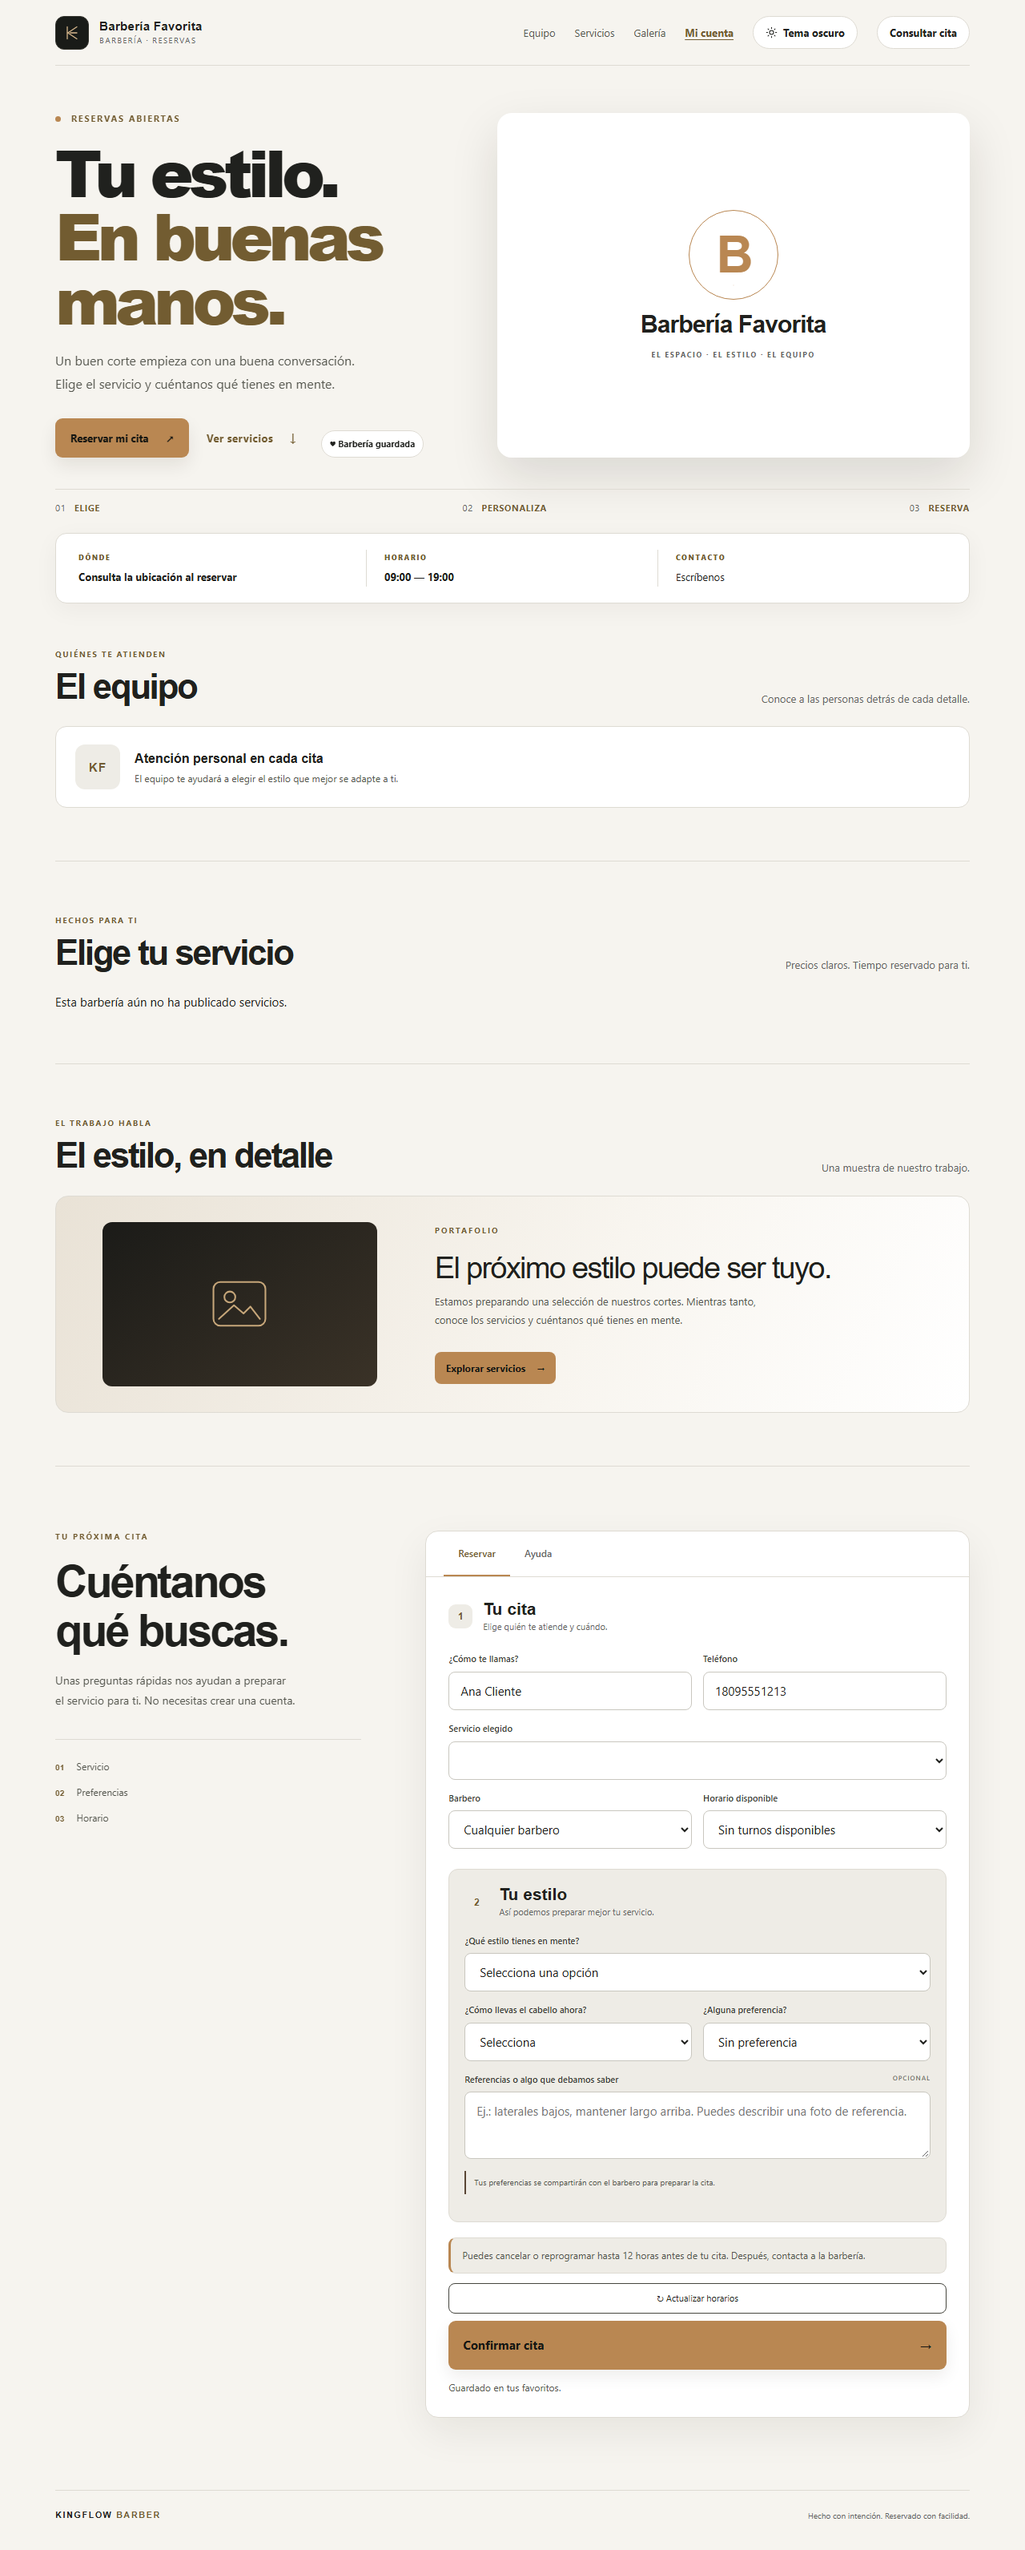
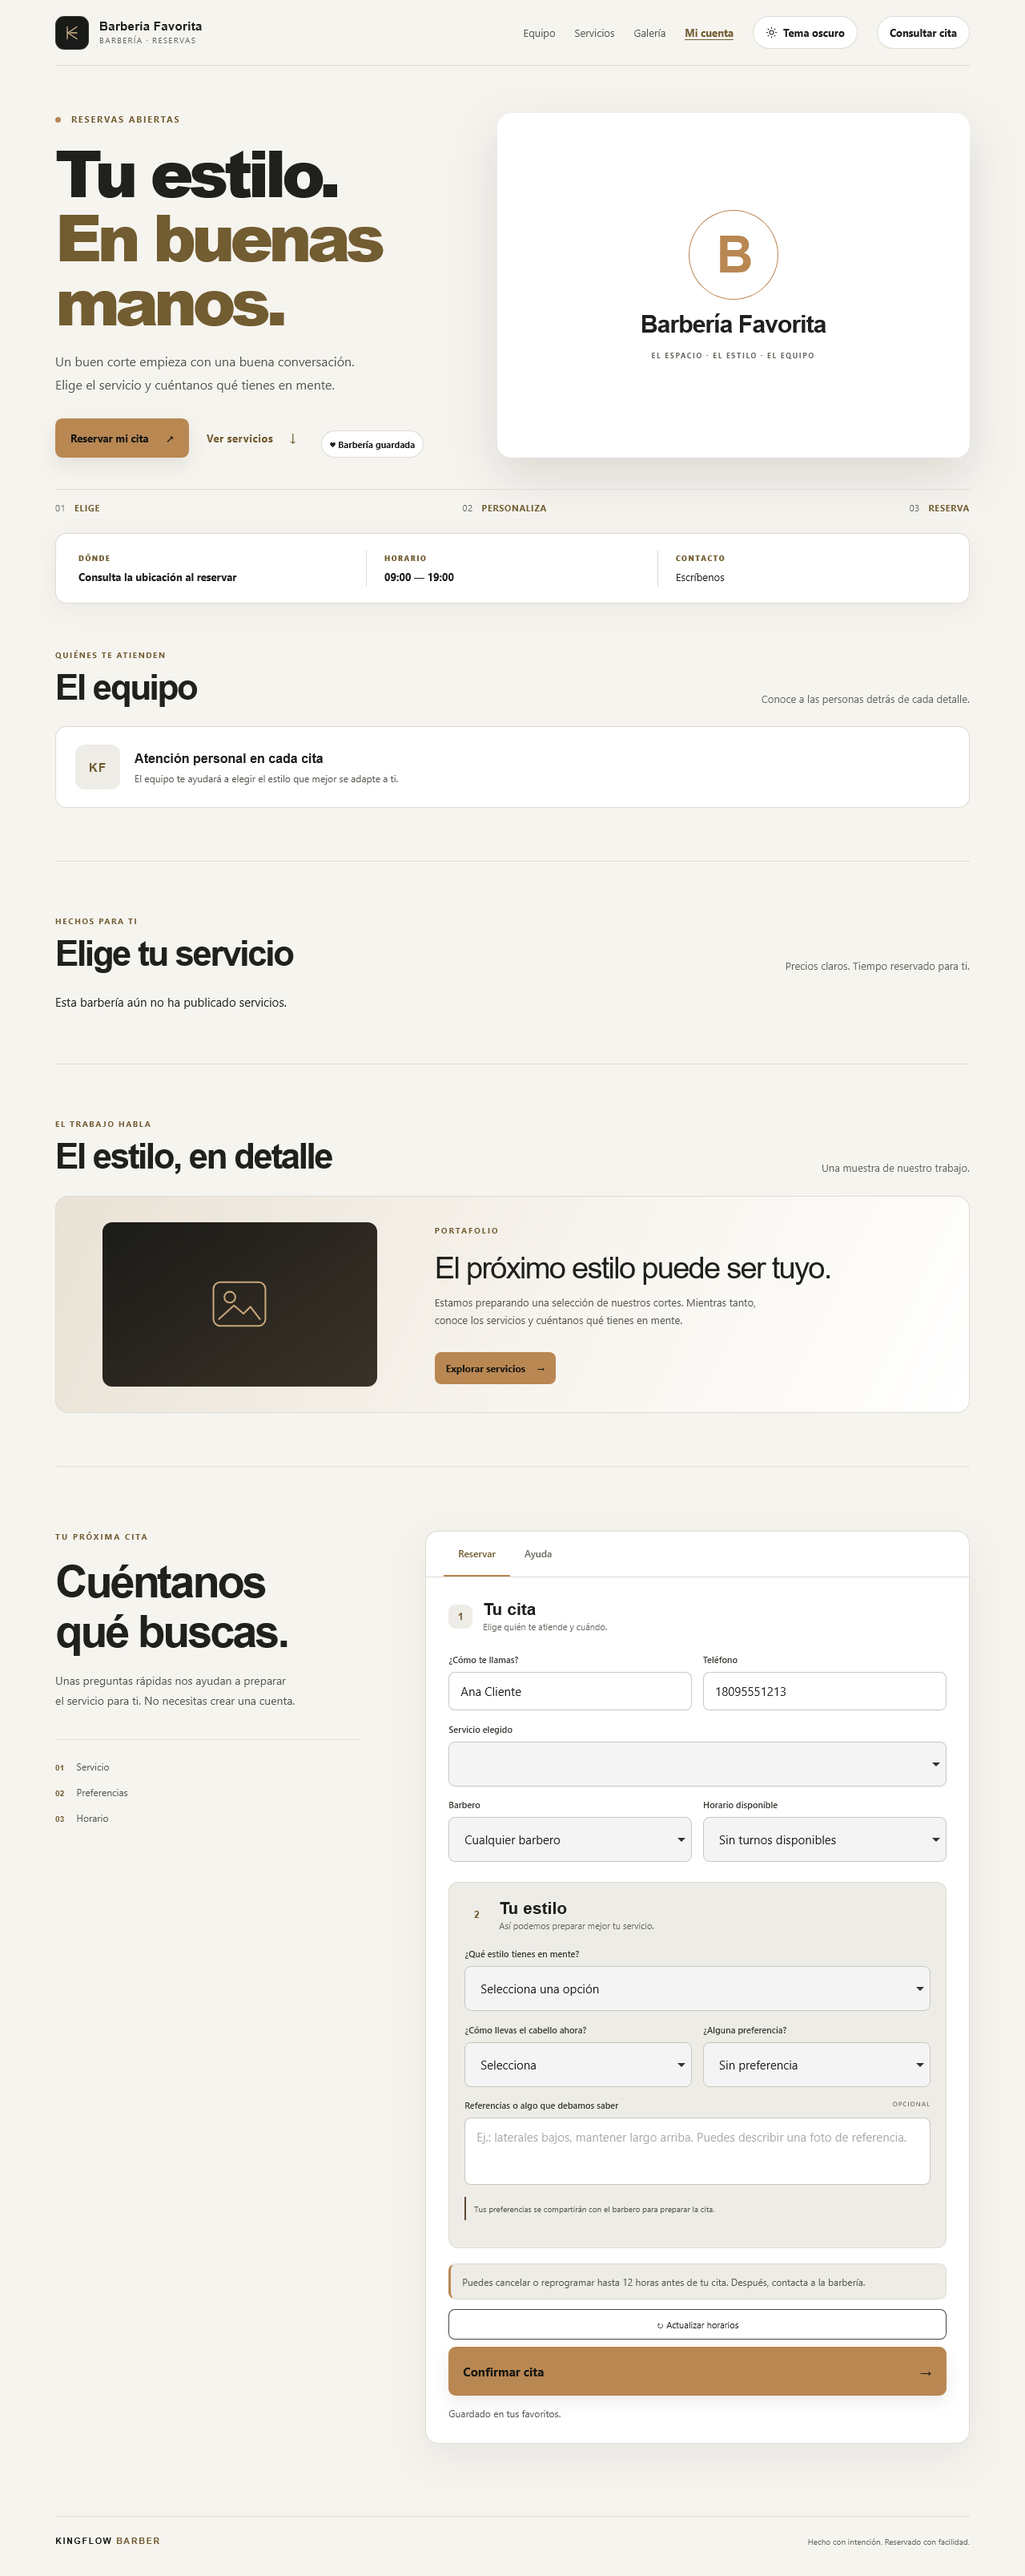
Fix owner cover preview and stabilize browser test

diff --git a/frontend/browser-tests/brand-settings-preview.spec.js b/frontend/browser-tests/brand-settings-preview.spec.js
@@ -7,6 +7,7 @@ test("owner sees a live, readable storefront preview from their settings", async
     document.getElementById("loginSection").style.display = "none";
     document.getElementById("dashboardSection").style.display = "grid";
     document.getElementById("ownerManagementTab").style.display = "block";
+    document.getElementById("ownerManagementTab").style.display = "block";
     document.getElementById("ownerManagementTabButton").hidden = false;
     currentUser = { role: "barbershop_owner" };
     serviceCache = [{
@@ -19,6 +20,11 @@ test("owner sees a live, readable storefront preview from their settings", async
     document.getElementById("businessSettingsDescription").value = "Cortes precisos y atención cercana.";
     document.getElementById("businessCancellationWindow").value = "12";
     setupBrandPreview();
+    const coverPreview = document.getElementById("businessCoverPreview");
+    const cover = document.createElement("img");
+    cover.src = "/images/barbershop-hero.png";
+    cover.alt = "Vista previa de portada para la barbería";
+    coverPreview.append(cover);
   });
 
   const preview = page.locator("#brandPreview");
@@ -39,15 +45,20 @@ test("owner sees a live, readable storefront preview from their settings", async
     await page.setViewportSize({ width, height: 1000 });
     const geometry = await page.evaluate(() => {
       const submit = document.querySelector("#businessSettingsForm .settings-submit button").getBoundingClientRect();
+      const cover = document.querySelector("#businessCoverPreview img").getBoundingClientRect();
       return {
         viewport: document.documentElement.clientWidth,
         document: document.documentElement.scrollWidth,
         submitLeft: submit.left,
         submitRight: submit.right,
+        coverLeft: cover.left,
+        coverRight: cover.right,
       };
     });
     expect(geometry.document, `horizontal overflow at ${width}px`).toBeLessThanOrEqual(width + 1);
     expect(geometry.submitLeft, `submit starts outside viewport at ${width}px`).toBeGreaterThanOrEqual(-1);
     expect(geometry.submitRight, `submit ends outside viewport at ${width}px`).toBeLessThanOrEqual(width + 1);
+    expect(geometry.coverLeft, `cover starts outside viewport at ${width}px`).toBeGreaterThanOrEqual(-1);
+    expect(geometry.coverRight, `cover ends outside viewport at ${width}px`).toBeLessThanOrEqual(width + 1);
   }
 });

diff --git a/frontend/css/business-gallery.css b/frontend/css/business-gallery.css
@@ -1,2 +1,6 @@
 .public-gallery-editor{margin-top:18px;padding:18px;background:#f7f7f2;border:1px solid #deded5;border-radius:12px}.public-gallery-editor h4{margin:0 0 5px}.public-gallery-editor .services-header{margin-bottom:10px}.public-gallery-editor .services-header p{color:#666;font-size:13px}.business-gallery-preview{display:grid;grid-template-columns:repeat(auto-fill,minmax(130px,1fr));gap:12px}.business-gallery-item{margin:0;position:relative}.business-gallery-item img{display:block;width:100%;height:120px;object-fit:cover;border-radius:9px;background:#e9e9e1}.business-gallery-item button{margin-top:6px;padding:7px 10px;font-size:12px}.service-photo{width:54px;height:48px;object-fit:cover;border-radius:8px;vertical-align:middle;margin-right:12px}
 .public-logo-editor,.public-cover-editor{margin-top:18px;padding:18px;background:#f7f7f2;border:1px solid #deded5;border-radius:12px}.public-logo-editor h4,.public-cover-editor h4{margin:0 0 5px}.public-logo-editor>p,.public-cover-editor>p{color:#666;font-size:13px}.business-logo-preview img{width:76px;height:76px;object-fit:cover;border-radius:12px;background:#e9e9e1;margin:8px 0 12px}.business-logo-preview .logo-placeholder{width:76px;height:76px;display:grid;place-items:center;background:#1b1c18;color:#b98752;border-radius:12px;font-size:28px;margin:8px 0 12px}
+
+.business-cover-preview { width:100%; max-width:100%; min-width:0; }
+.business-cover-preview img { display:block; width:100%; max-width:100%; max-height:360px; object-fit:cover; object-position:center 42%; border-radius:10px; }
+.business-cover-preview button { margin-top:10px; }

diff --git a/frontend/tests/service-worker.test.js b/frontend/tests/service-worker.test.js
@@ -48,7 +48,7 @@ test("pre-caches app shell and removes only KingFlow caches from older versions"
   let installPromise;
   worker.listeners.get("install")({ waitUntil(promise) { installPromise = promise; } });
   await installPromise;
-  assert.equal(worker.addedAssets[0].name, "kingflow-pwa-v65");
+  assert.equal(worker.addedAssets[0].name, "kingflow-pwa-v66");
   assert.ok(worker.addedAssets[0].assets.includes("/js/main.js?v=20261125-booking-answers-2"));
   assert.ok(worker.addedAssets[0].assets.includes("/js/client.js?v=20261125-booking-answers-2"));
   assert.ok(worker.addedAssets[0].assets.includes("/client-account.html"));
@@ -58,7 +58,7 @@ test("pre-caches app shell and removes only KingFlow caches from older versions"
   assert.ok(worker.addedAssets[0].assets.includes("/css/auth-pages.css"));
   assert.ok(worker.addedAssets[0].assets.includes("/css/ui-feedback.css"));
   assert.ok(worker.addedAssets[0].assets.includes("/css/client.css?v=20261125-booking-answers-2"));
-  assert.ok(worker.addedAssets[0].assets.includes("/css/business-gallery.css"));
+  assert.ok(worker.addedAssets[0].assets.includes("/css/business-gallery.css?v=20261125-cover-preview-1"));
   assert.ok(worker.addedAssets[0].assets.includes("/js/ui-feedback.js"));
   for (const asset of worker.addedAssets[0].assets) {
     const relativePath = asset === "/" ? "index.html" : asset.slice(1).split("?", 1)[0];

diff --git a/frontend/browser-tests/client-account.spec.js b/frontend/browser-tests/client-account.spec.js
@@ -90,6 +90,7 @@ test("customer cancels an upcoming appointment only after an in-page confirmatio
 test("verified customer can reschedule an appointment from account history", async ({ page }) => {
   let rescheduleRequest;
   let listCalls = 0;
+  await page.clock.setFixedTime(new Date("2026-11-25T15:00:00Z"));
   await page.route("**/api/v1/auth/login", (route) => route.fulfill({ json: {
     access_token: "client-access", refresh_token: "client-refresh", token_type: "bearer",
     user: { id: 9, email: "ana@example.com", full_name: "Ana Cliente", role: "client" },

diff --git a/frontend/sw.js b/frontend/sw.js
@@ -1,5 +1,5 @@
 const CACHE_PREFIX = 'kingflow-pwa-';
-const CACHE_NAME = `${CACHE_PREFIX}v65`;
+const CACHE_NAME = `${CACHE_PREFIX}v66`;
 const ASSETS_TO_CACHE = [
   '/',
   '/index.html',
@@ -17,7 +17,7 @@ const ASSETS_TO_CACHE = [
   '/css/ui-feedback.css',
   '/css/client.css?v=20261125-booking-answers-2',
   '/css/client-account.css?v=20261125-account-8',
-  '/css/business-gallery.css',
+  '/css/business-gallery.css?v=20261125-cover-preview-1',
   '/images/barbershop-hero.png',
   '/css/owner-dashboard.css',
   '/js/main.js?v=20261125-booking-answers-2',

diff --git a/frontend/index.html b/frontend/index.html
@@ -12,7 +12,7 @@
     <link rel="icon" type="image/svg+xml" href="/icons/icon-192.svg">
     <link rel="stylesheet" href="/css/account-security.css">
     <link rel="stylesheet" href="/css/ui-feedback.css">
-    <link rel="stylesheet" href="/css/business-gallery.css">
+    <link rel="stylesheet" href="/css/business-gallery.css?v=20261125-cover-preview-1">
     <title>KingFlow Barber - Sistema Operativo para Barberías</title>
     <style>
         :root {

diff --git a/backend/scripts/seed_db.py b/backend/scripts/seed_db.py
@@ -44,7 +44,7 @@ def seed_database() -> int:
             )
             return 1
 
-        now = datetime.utcnow()
+        now = datetime.now(timezone.utc).replace(tzinfo=None)
         subscription = Subscription(
             plan="professional", status="active", current_period_start=now,
             current_period_end=now + timedelta(days=30), max_barbers=10,

diff --git a/docs/PRODUCT_AUDIT.md b/docs/PRODUCT_AUDIT.md
@@ -72,6 +72,9 @@ Hay controles útiles ya presentes: roles, aislamiento de tenant, refresh revoca
 - Las respuestas de estilo y del cuestionario configurable se envían aparte de las notas, se limitan a las preguntas vigentes del tenant y se guardan como JSON en MySQL. La agenda autorizada las presenta separadas de las notas heredadas; las respuestas configuradas no pueden inyectar preguntas ajenas y se escapan al renderizar.
 - El seeder local crea un tenant demo completo para reservas: propietario, barbero, tres servicios, preguntas de consulta, horario y turnos futuros. La base MySQL local de desarrollo se migró de `030_public_theme` a `036_booking_answers`; no se modificó el esquema `_test`.
 - La revisión de la demo llamó a la API con Chromium: perfil público, catálogo (3 servicios), horarios de 30/60 minutos y login propietario más `/auth/me` respondieron correctamente. La página pública quedó capturada en `docs/evidence/demo-public-booking-local.png`; Playwright comprobó 320, 375, 390, 430, 768, 1024, 1366 y 1920 px sin desbordamiento ni excepciones JavaScript.
+- La revisión real del panel owner encontró que la portada predeterminada desbordaba el documento por conservar su ancho original. Se limitó al ancho del panel con recorte uniforme, se versionó el CSS/PWA y se agregó una regresión automatizada; el login y la revisión a ocho viewports ya pasan. Evidencia en `docs/evidence/demo-owner-settings-local.png`.
+- La prueba Playwright del contador de la próxima cita dependía de la hora real del runner; se fijó el reloj del navegador para que el caso de siete días sea determinista. Los ocho recorridos del portal cliente y la prueba de configuración/personalización pasaron localmente.
+- Validación local tras estos arreglos: 111/111 pruebas frontend; 8/8 recorridos de portal cliente/configuración por navegador en Chromium, Firefox y WebKit; login y endpoints públicos comprobados contra MySQL local; `compileall`, Flake8 del seeder y `git diff --check` pasaron.
 - `python -m compileall -q scripts/seed_db.py`, `python -m flake8 scripts/seed_db.py` y `git diff --check` pasaron para el seeder mejorado. La ejecución contra la base MySQL local creó 482 turnos futuros. Las credenciales y la URL de prueba están en [QUICKSTART.md](../QUICKSTART.md); son solo para desarrollo local.
 - Validación local de esta parte: 111 pruebas frontend, el recorrido Playwright de reserva pública (1/1), 25 pruebas backend unitarias y `compileall`/Flake8 pasaron; cinco pruebas de MySQL se omitieron localmente por falta de `TEST_DATABASE_URL` dedicada. Alembic generó el `ALTER TABLE appointments ADD COLUMN booking_answers JSON` en dialecto MySQL.
 - GitHub Actions `45636391253` validó `036_booking_answers` con upgrade, downgrade y recuperación MySQL; `python -m pytest backend/tests -q` dio **172 passed**. Frontend, el nuevo flujo de reserva en Chromium/Firefox/WebKit, WhatsApp, auditorías de dependencias y smoke de producción/Compose pasaron en los tres jobs: [run 45636391253](https://github.com/Oaquinor/BarberFlow/actions/runs/45636391253).

diff --git a/docs/evidence/README.md b/docs/evidence/README.md
@@ -10,3 +10,4 @@ La prueba visual cubre anchos de 320, 375, 390, 430, 768, 1024, 1366 y 1920 píx
 - `client-barbershop-favorite-before.png` y `client-barbershop-favorite-after.png` muestran la acción de guardar una barbería desde su perfil público antes y después del cambio, usando un negocio sintético. La portada no presenta una foto genérica: muestra la identidad del negocio si no hay imágenes propias. El layout responsive se verifica de 320 a 1920 px.
 - `public-booking-answers-before.png` y `public-booking-answers-after.png` muestran el cuestionario configurado y la confirmación de una reserva sintética; el flujo de navegador verifica que estilo, respuestas personalizadas y notas se envían por separado.
 - `demo-public-booking-local.png` muestra la página pública servida por FastAPI con el negocio demo y su catálogo real de MySQL. Playwright comprobó en Chromium los ocho anchos de 320 a 1920 px: no encontró overflow horizontal ni errores JavaScript.
+- `demo-owner-settings-local.png` muestra la configuración autenticada del owner con la portada ajustada al ancho de su panel. El recorrido real pasó login y revisó 320, 375, 390, 430, 768, 1024, 1366 y 1920 px sin overflow ni excepciones JavaScript.
